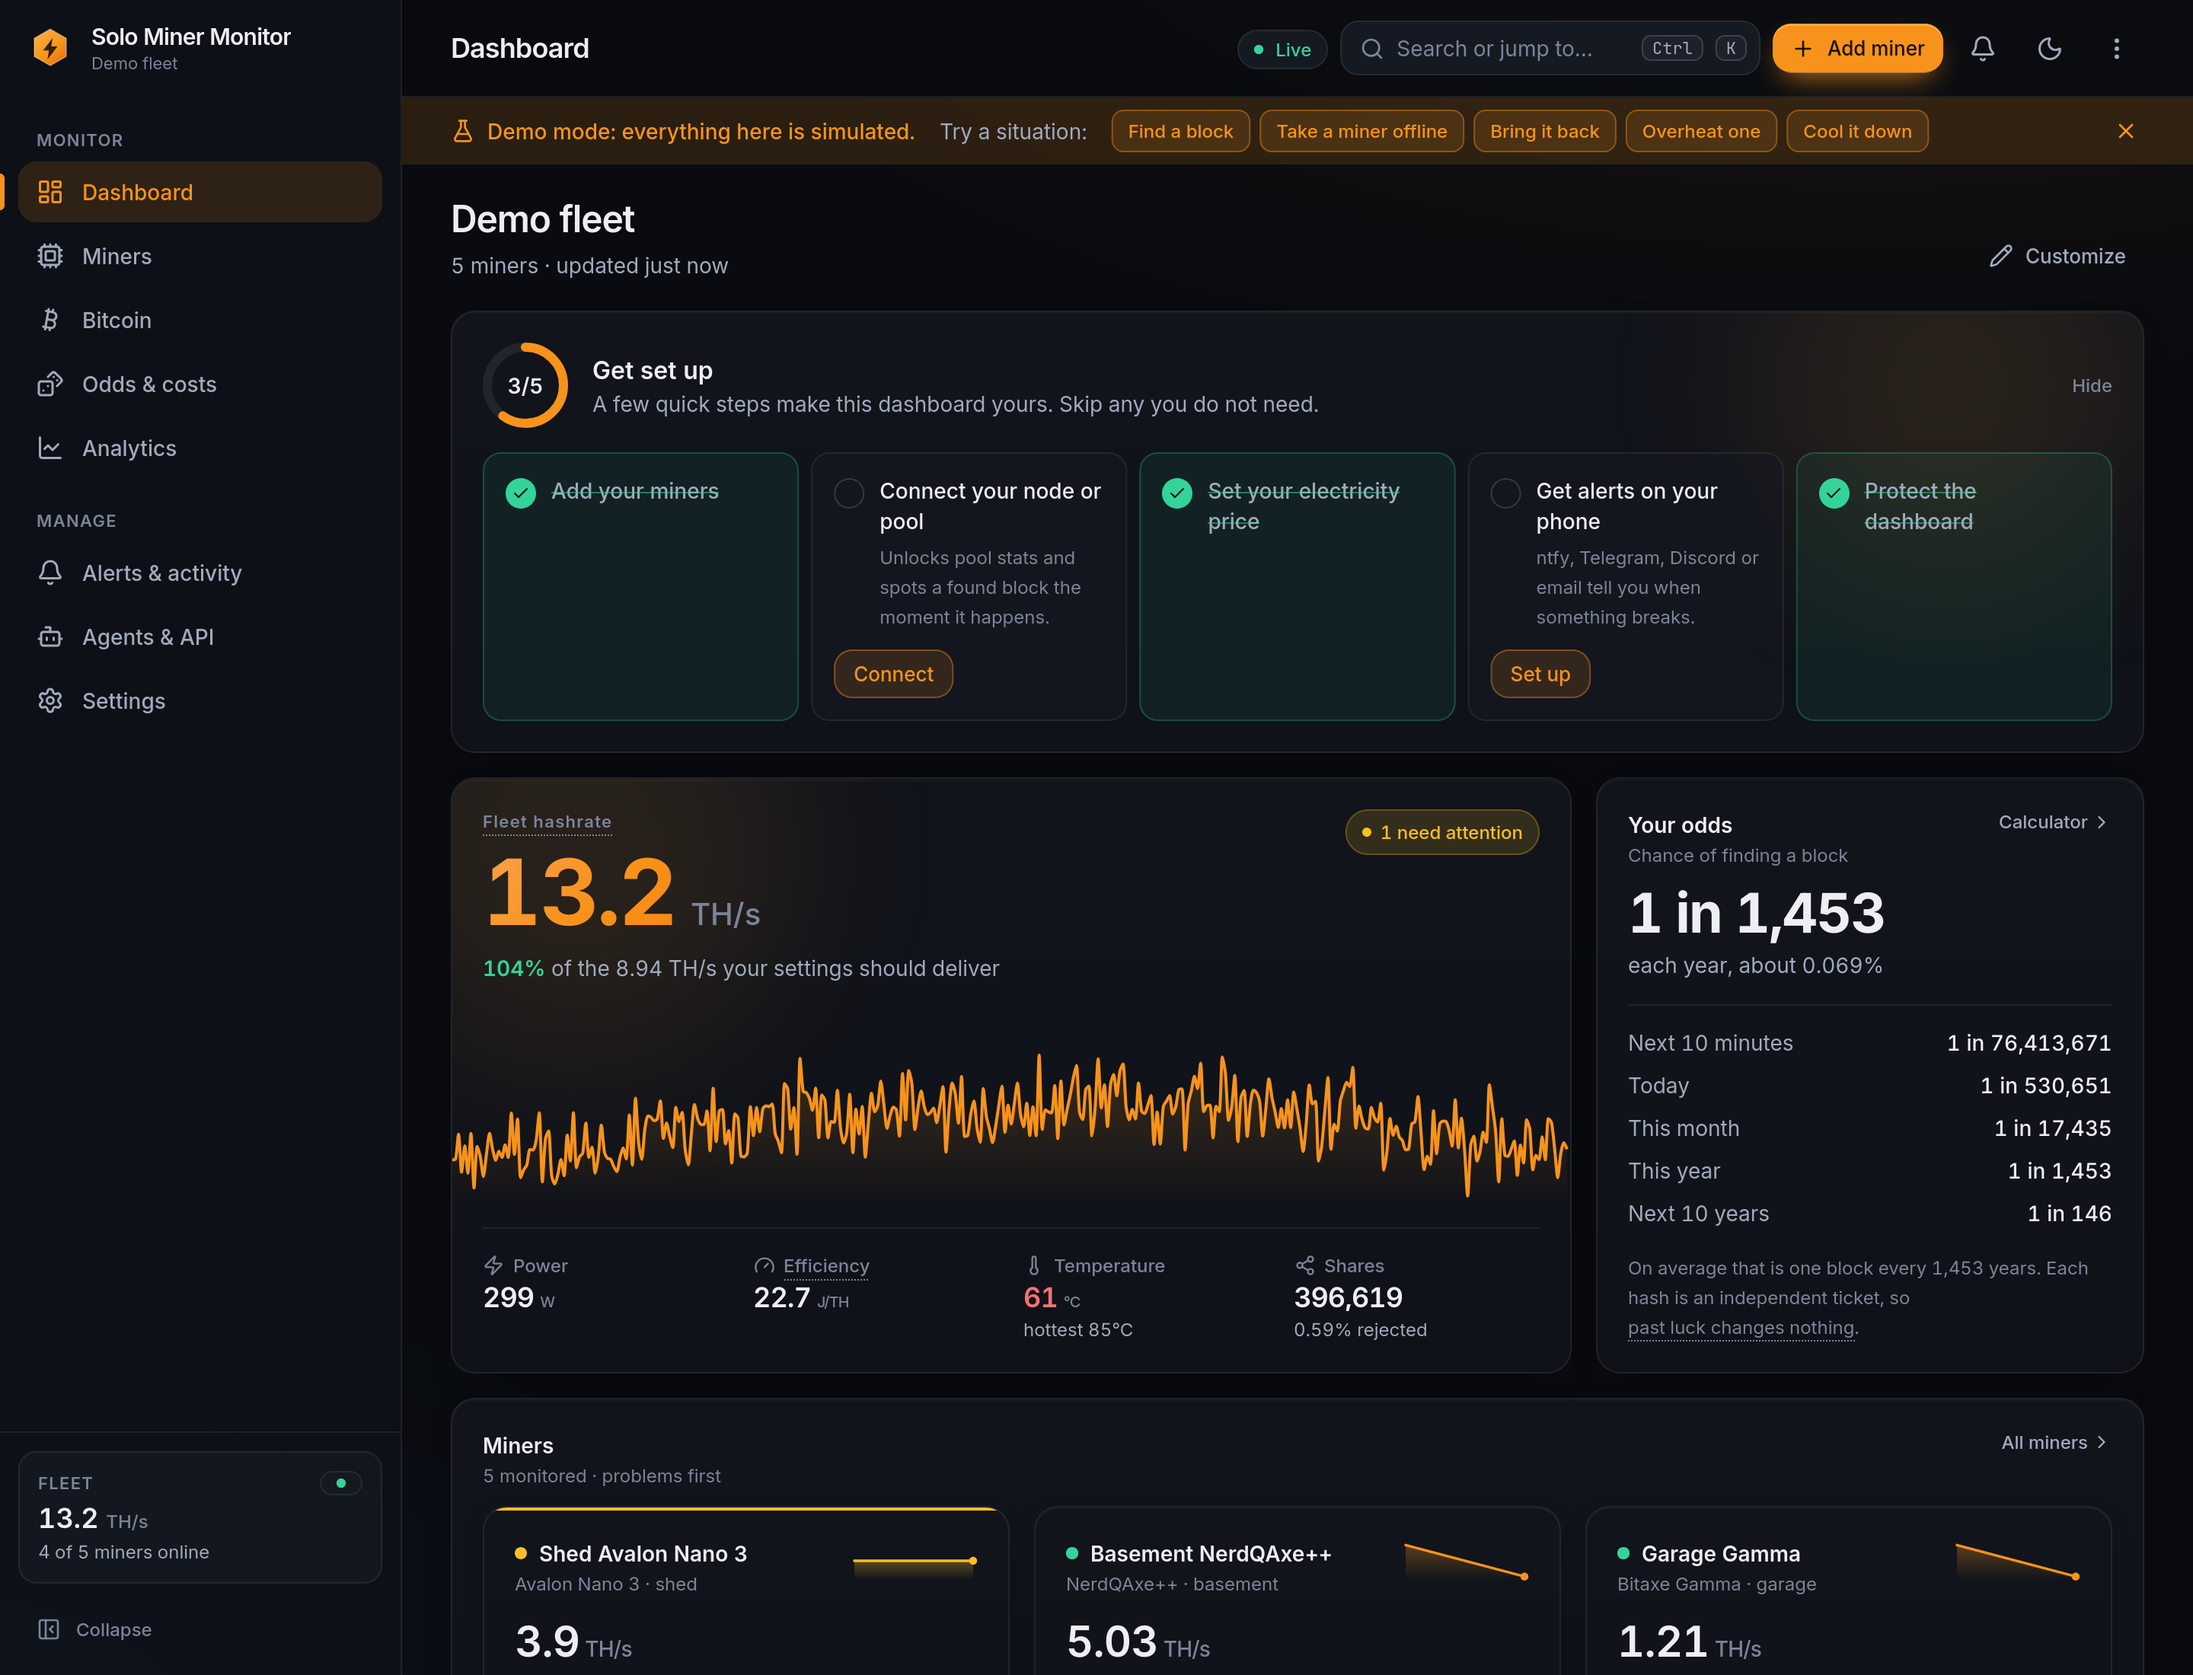
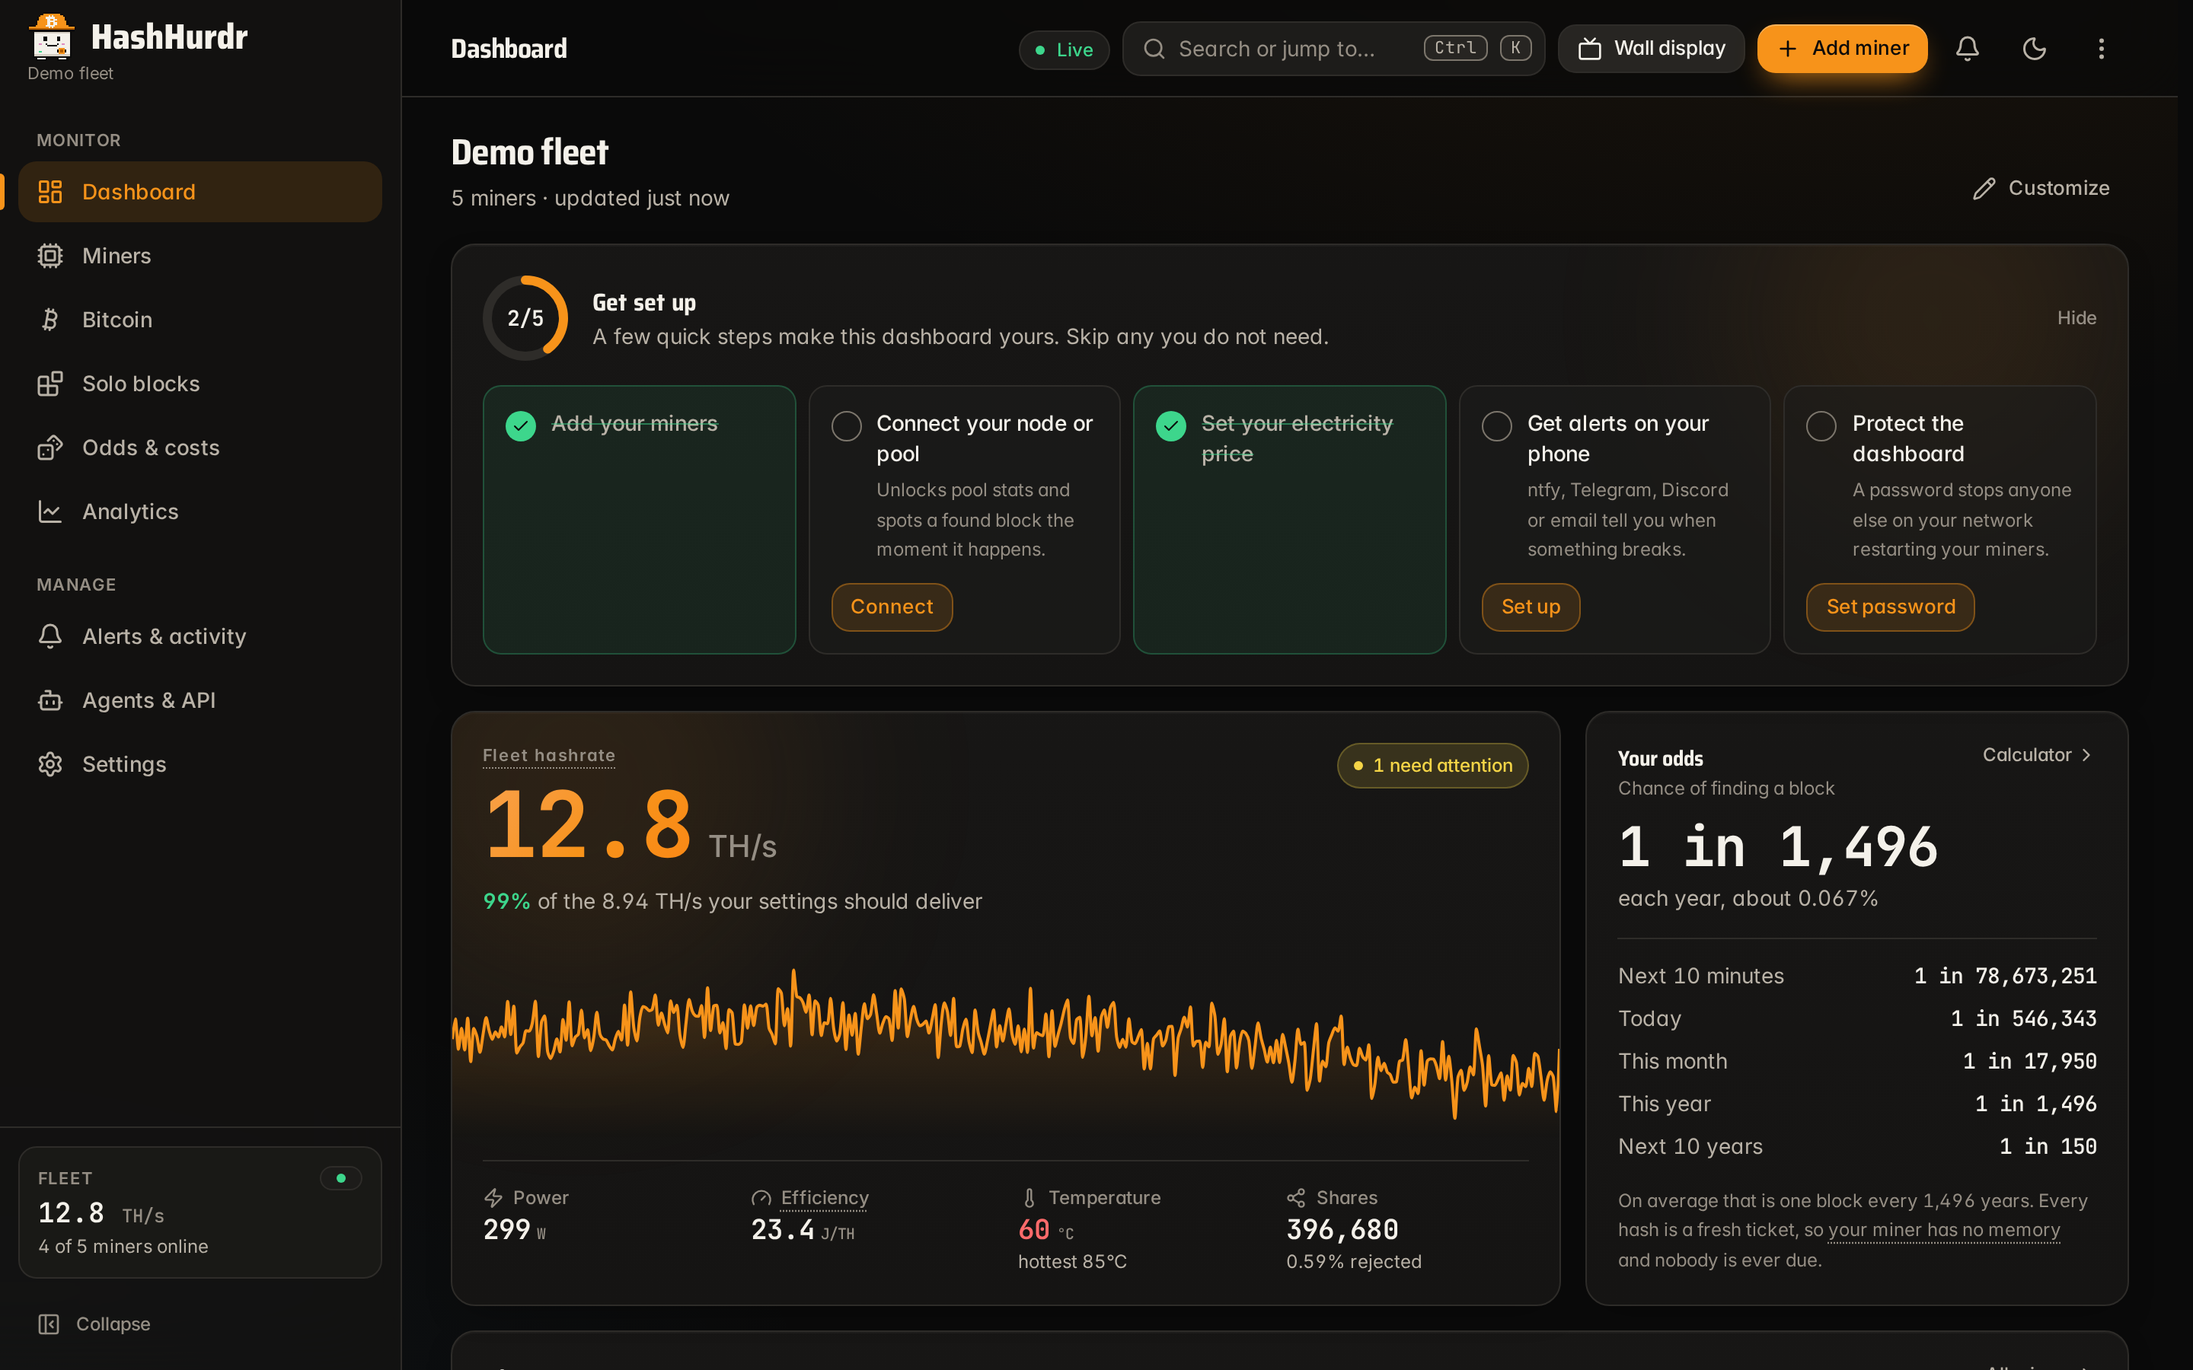
docs: retake the README screenshots on v1.4.1

diff --git a/README.md b/README.md
@@ -96,7 +96,7 @@ Read [SECURITY.md](SECURITY.md) before exposing the dashboard beyond your LAN.
 
 ## Screenshots
 
-Demo screens captured on v1.1.2 in Firefox, before the HashHurdr name and Night Shift look. They have not been retaken yet. All fleet data shown here is simulated, not measured from live miners.
+Fresh screens from HashHurdr v1.4.1 in the Night Shift look. They come from the built-in demo mode, so the five-miner fleet is simulated and none of the numbers are measured from live miners.
 
 ![Fleet dashboard](docs/screenshots/dashboard.png)
 
